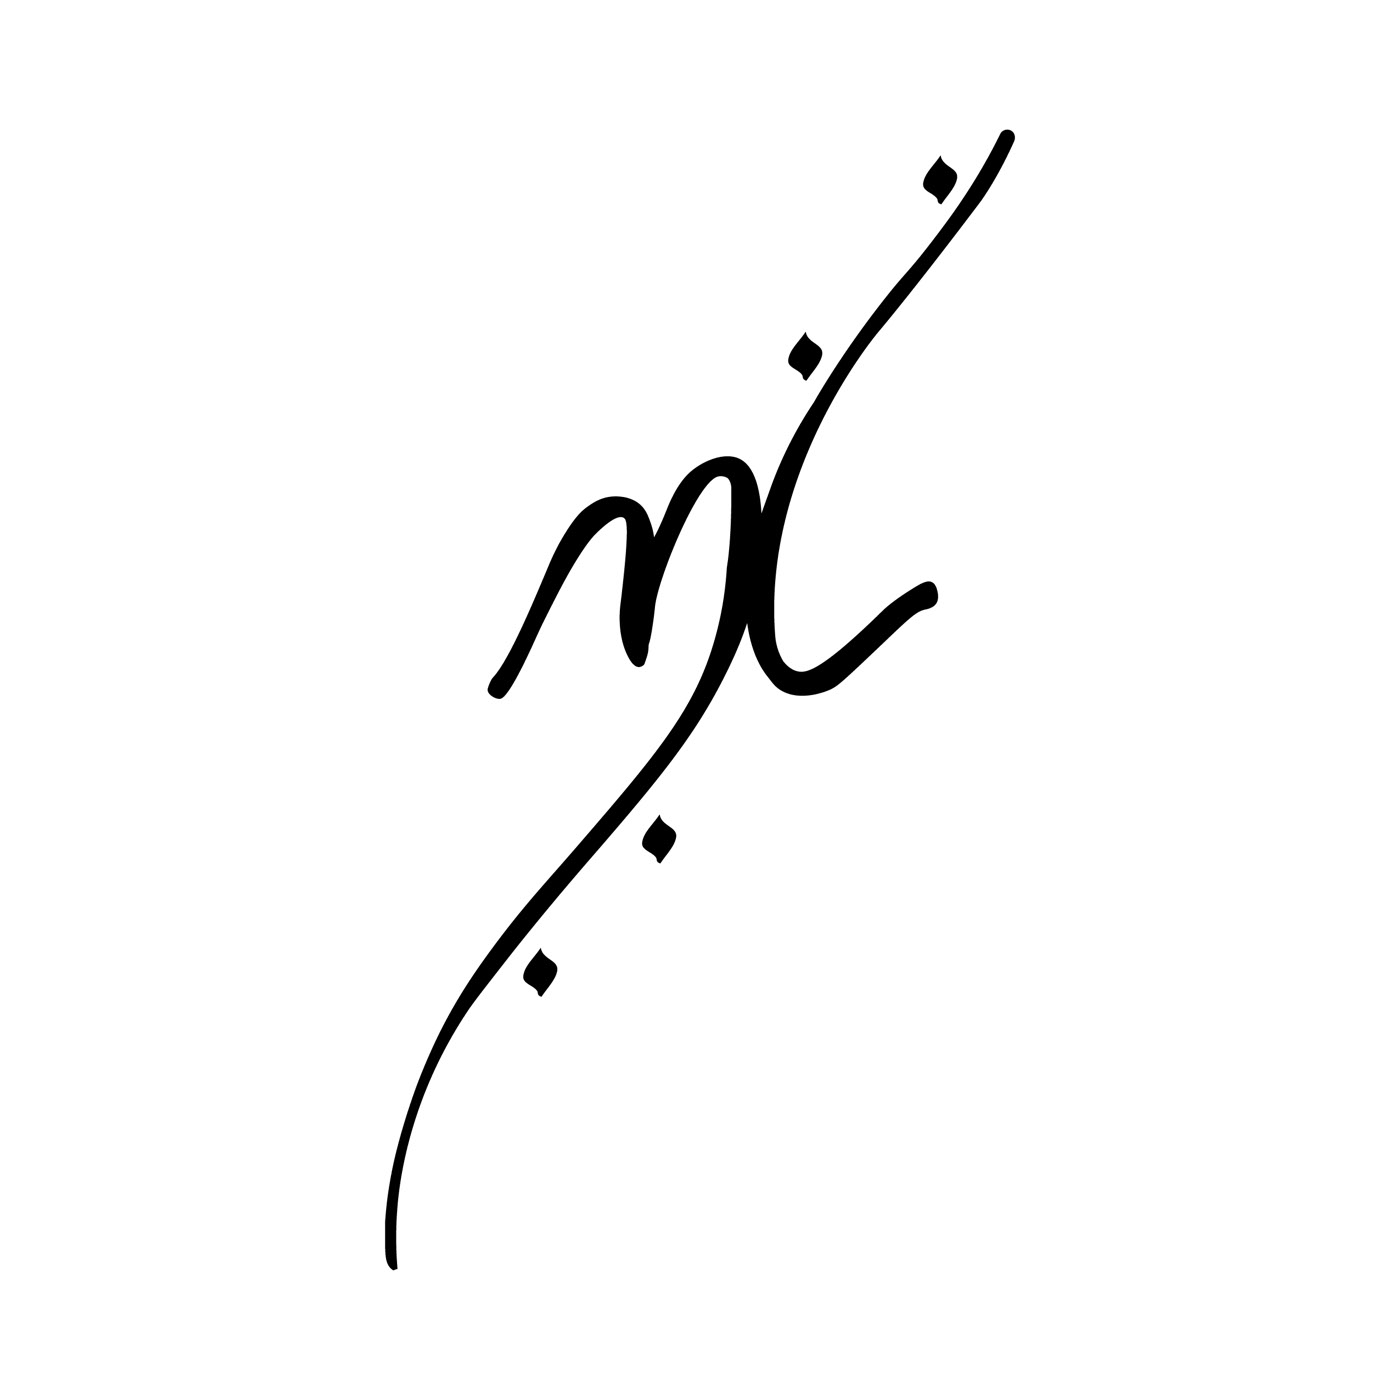
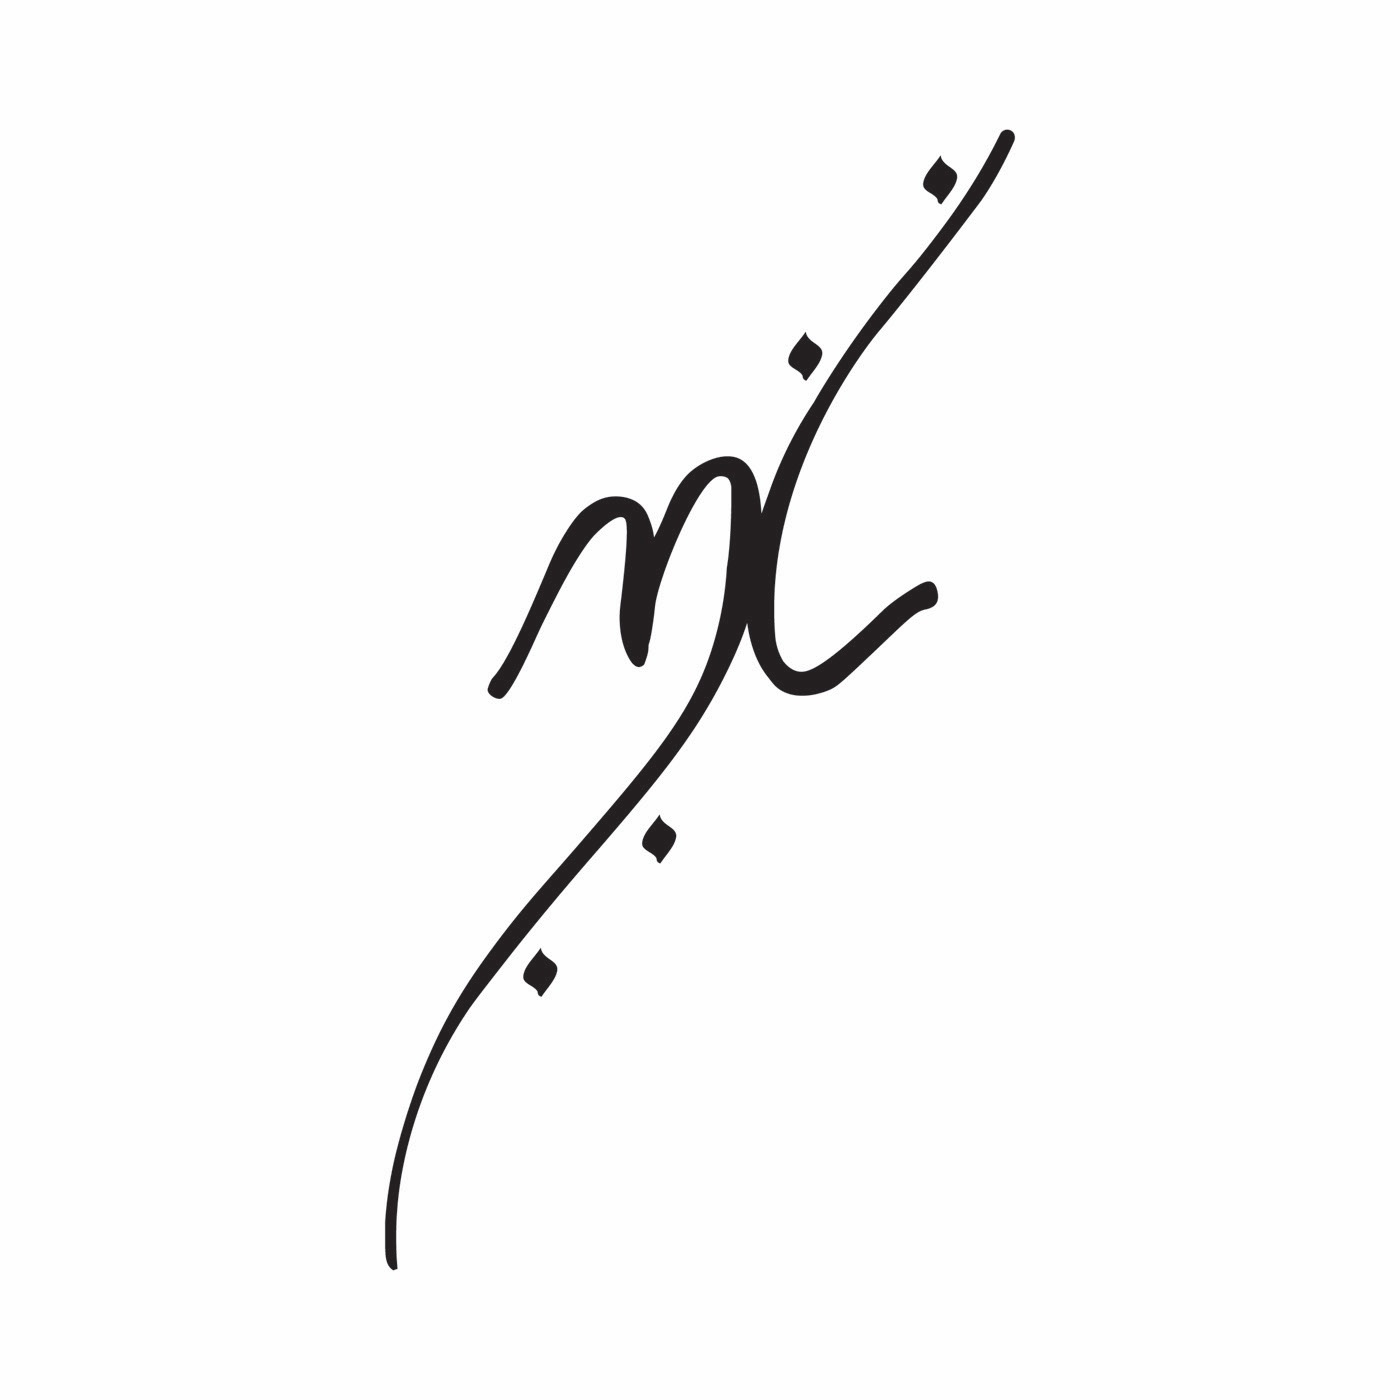
Polish Fate of Creation pages

diff --git a/src/components/FateOfCreationReader.tsx b/src/components/FateOfCreationReader.tsx
@@ -1,13 +1,13 @@
 "use client";
 
 import Image from "next/image";
-import { useState } from "react";
+import { useEffect, useState } from "react";
 
 const tabs = [
   { id: "beginning", label: "The First Storm", marker: "I" },
-  { id: "map", label: "Map", marker: "M" },
-  { id: "proto-medjic", label: "Proto-Medjic", marker: "P" },
-  { id: "calendar", label: "The Medjic Calendar", marker: "01" },
+  { id: "map", label: "Map", marker: "II" },
+  { id: "proto-medjic", label: "Proto-Medjic", marker: "III" },
+  { id: "calendar", label: "The Medjic Calendar", marker: "IV" },
 ] as const;
 
 type TabId = (typeof tabs)[number]["id"];
@@ -98,6 +98,7 @@ const medjicEvolution = [
 ] as const;
 
 const medjicAges = [
+  "Age of Creation",
   "Age of Lucence",
   "Age of Consonance",
   "Age of Dissonance",
@@ -108,20 +109,14 @@ const medjicAges = [
 
 function EmblemWatermark() {
   return (
-    <svg className="chapter-emblem" viewBox="0 0 1400 1400" aria-hidden="true">
-      <defs>
-        <filter id="emblem-ink" colorInterpolationFilters="sRGB">
-          <feColorMatrix
-            type="matrix"
-            values="0 0 0 0 0
-                    0 0 0 0 0
-                    0 0 0 0 0
-                   -0.333 -0.333 -0.333 0 1"
-          />
-        </filter>
-      </defs>
-      <image href="/images/mc-emblem.jpg" width="1400" height="1400" filter="url(#emblem-ink)" />
-    </svg>
+    <Image
+      className="chapter-emblem"
+      src="/images/mc-emblem-antique-gold.png"
+      alt=""
+      width={1145}
+      height={1374}
+      loading="eager"
+    />
   );
 }
 
@@ -252,10 +247,22 @@ function MapPanel() {
       <figure>
         <Image
           src="/images/ebon-yard-map.jpg"
-          alt="Map of Ebon Yard"
+          alt="Full map of Ebon Yard"
           width={1920}
           height={1357}
           quality={90}
+          loading="eager"
+          sizes="(max-width: 900px) 94vw, 74vw"
+        />
+      </figure>
+      <figure>
+        <Image
+          src="/images/world-map.jpg"
+          alt="Map of Ebon Yard"
+          width={2400}
+          height={1696}
+          quality={90}
+          loading="eager"
           sizes="(max-width: 900px) 94vw, 74vw"
         />
       </figure>
@@ -284,6 +291,14 @@ function MedjicCalendarPanel() {
 
 export function FateOfCreationReader() {
   const [activeTab, setActiveTab] = useState<TabId>("beginning");
+
+  useEffect(() => {
+    const mapImage = new window.Image();
+    mapImage.src = "/images/ebon-yard-map.jpg";
+
+    const worldMapImage = new window.Image();
+    worldMapImage.src = "/images/world-map.jpg";
+  }, []);
 
   return (
     <div className="foc-reader">

diff --git a/src/app/globals.css b/src/app/globals.css
@@ -295,15 +295,6 @@ footer p { margin: 0; }
   text-align: center;
 }
 
-.foc-sidebar-heading::before {
-  width: 8px;
-  height: 8px;
-  margin: 0 auto 1rem;
-  border: 1px solid var(--parchment-muted);
-  content: "";
-  transform: rotate(45deg);
-}
-
 .foc-sidebar-heading p {
   margin: 0;
   color: var(--parchment-bright);
@@ -396,12 +387,12 @@ footer p { margin: 0; }
   border: 1px solid rgba(84, 53, 24, 0.62);
   border-radius: 2px 7px 3px 5px;
   background:
-    radial-gradient(circle at 16% 12%, rgba(255, 244, 202, 0.34), transparent 25%),
-    radial-gradient(circle at 82% 76%, rgba(102, 63, 27, 0.15), transparent 31%),
-    radial-gradient(circle at 66% 18%, rgba(255, 231, 169, 0.16), transparent 18%),
+    radial-gradient(circle 360px at 16% 180px, rgba(255, 244, 202, 0.34), transparent 100%),
+    radial-gradient(circle 520px at 82% 900px, rgba(102, 63, 27, 0.15), transparent 100%),
+    radial-gradient(circle 300px at 66% 220px, rgba(255, 231, 169, 0.16), transparent 100%),
     repeating-radial-gradient(circle at 34% 41%, rgba(78, 49, 22, 0.025) 0 0.7px, transparent 0.8px 4px),
     repeating-linear-gradient(7deg, transparent 0 11px, rgba(75, 48, 22, 0.025) 12px),
-    linear-gradient(135deg, #d9c18b 0%, #c9a96f 48%, #b68d54 100%);
+    linear-gradient(135deg, #d9c18b 0, #c9a96f 720px, #b68d54 1500px);
   color: #292116;
   box-shadow:
     inset 0 0 75px rgba(77, 43, 16, 0.27),
@@ -455,7 +446,8 @@ footer p { margin: 0; }
 .chapter-title-block {
   position: relative;
   display: grid;
-  min-height: clamp(230px, 30vw, 330px);
+  height: clamp(260px, 30vw, 330px);
+  overflow: hidden;
   place-items: center;
   isolation: isolate;
   text-align: center;
@@ -464,10 +456,13 @@ footer p { margin: 0; }
 .chapter-emblem {
   position: absolute;
   z-index: 0;
-  width: clamp(245px, 34vw, 390px);
-  height: auto;
+  display: block;
+  width: auto;
+  max-width: 82%;
+  height: calc(100% - 20px);
+  object-fit: contain;
   opacity: 0.11;
-  transform: translateY(-1%);
+  mix-blend-mode: multiply;
   pointer-events: none;
   user-select: none;
 }
@@ -750,7 +745,11 @@ footer p { margin: 0; }
   margin: 0;
 }
 
-.map-panel img {
+.map-panel figure + figure {
+  margin-top: clamp(1.5rem, 3vw, 2.5rem);
+}
+
+.map-panel figure img {
   display: block;
   width: 100%;
   height: auto;
